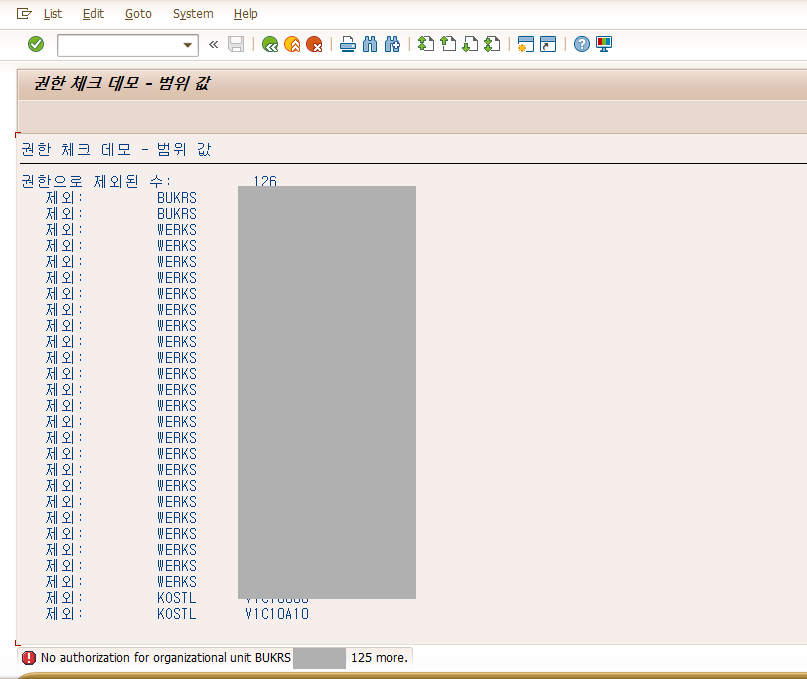
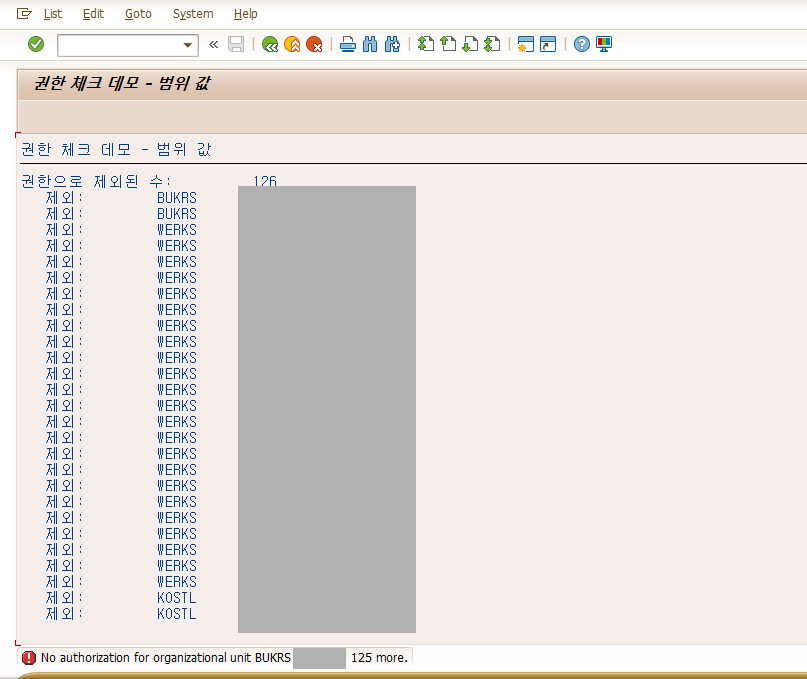
Add print stylesheet, redact remaining values in demo6 capture
인쇄 시 표·그림·캡처가 페이지 경계에서 잘리지 않도록 print CSS 추가.
데모6 차단 화면에 남아 있던 코스트센터 값 2건 마스킹.

Changed region(s): [[0.2788, 0.866, 0.5266, 0.9588]]

diff --git a/auth-check/index.html b/auth-check/index.html
@@ -76,6 +76,43 @@
 
   .foot{margin-top:64px;padding-top:16px;border-top:1px solid var(--line);
     font-size:13px;color:var(--sub)}
+
+  @media print{
+    @page{size:A4;margin:16mm 14mm}
+    html,body{background:#fff}
+    body{font-size:10.5pt;line-height:1.62}
+    .wrap{max-width:none;margin:0;padding:0}
+    *{-webkit-print-color-adjust:exact;print-color-adjust:exact}
+
+    /* 장 단위로 페이지를 나눈다 */
+    h2{break-before:page;break-after:avoid;margin:0 0 10px;font-size:16pt}
+    header.doc + nav.toc{break-after:avoid}
+    h3,h4{break-after:avoid}
+    h3{font-size:12.5pt}
+    h4{font-size:11pt}
+    p,li{orphans:3;widows:3}
+
+    /* 잘리면 안 되는 덩어리 */
+    figure.shot,figure.diagram,.diagram,.callout,nav.toc{break-inside:avoid}
+    figure.shot img{width:100%}
+    .diagram svg{max-width:100%;height:auto}
+
+    /* 표는 행 단위로만 끊는다 */
+    .tblwrap{overflow:visible;break-inside:auto}
+    table{font-size:9pt;break-inside:auto}
+    th,td{padding:5px 7px;break-inside:avoid}
+    tr{break-inside:avoid}
+    thead{display:table-header-group}
+    td:first-child{white-space:normal}
+
+    /* 코드는 줄바꿈해 가로 잘림을 막는다 */
+    pre{font-size:8.6pt;line-height:1.5;padding:10px 12px;overflow:visible;
+        white-space:pre-wrap;word-break:break-word;break-inside:auto}
+    code{font-size:8.8pt}
+
+    a{color:inherit;text-decoration:none}
+    .foot{margin-top:24px;break-inside:avoid}
+  }
 </style>
 </head>
 <body>
